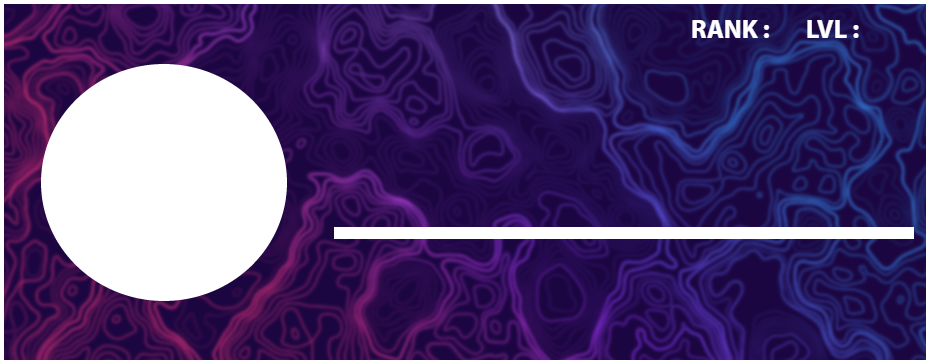
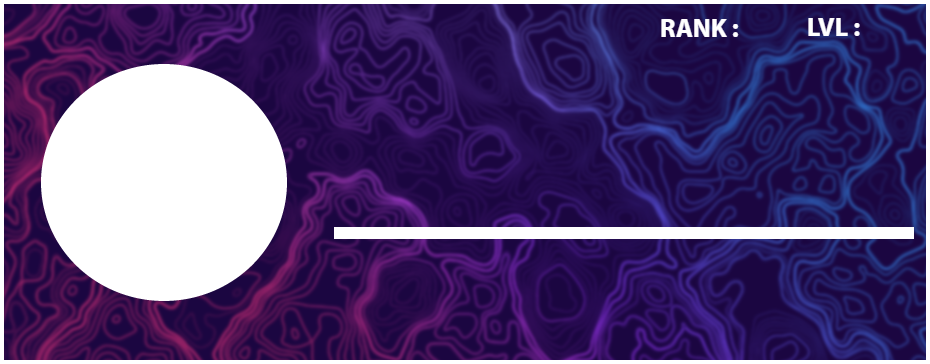
updated the clippy rankcard

Changed region(s): [[0.686, 0.0302, 0.9355, 0.1209]]

diff --git a/cogs_hidden/leveling.py b/cogs_hidden/leveling.py
@@ -281,7 +281,7 @@ rank_card_templates = {
         "username_y": 150,
         "username_font": ImageFont.truetype("assets/fonts/Roboto-Bold.ttf", size=55),
 
-        "rank_xy": (775, 15),
+        "rank_xy": (760, 15),
         "level_xy": (870, 15),
         "xp_xy": (720, 245),
         "no_xp_text": False,
